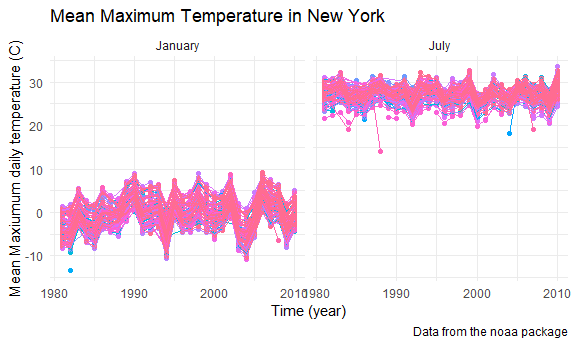
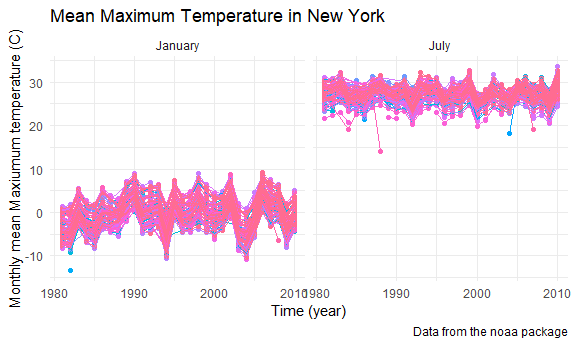
correct the axis name in problem 3

Changed region(s): [[0.0, 0.087, 0.0625, 0.8986]]

diff --git a/p8105_hw3_zl2861.md b/p8105_hw3_zl2861.md
@@ -1,14 +1,14 @@
 Visualization & EDA
 ================
 
-    ## -- Attaching packages ---------------------------------------------- tidyverse 1.3.0 --
+    ## -- Attaching packages -------------------------------------------------------------- tidyverse 1.3.0 --
 
     ## v ggplot2 3.3.0     v purrr   0.3.4
     ## v tibble  3.0.1     v dplyr   0.8.5
     ## v tidyr   1.0.3     v stringr 1.4.0
     ## v readr   1.3.1     v forcats 0.5.0
 
-    ## -- Conflicts ------------------------------------------------- tidyverse_conflicts() --
+    ## -- Conflicts ----------------------------------------------------------------- tidyverse_conflicts() --
     ## x dplyr::filter() masks stats::filter()
     ## x dplyr::lag()    masks stats::lag()
 
@@ -285,7 +285,7 @@ noaa_df %>%
   labs(
     title = "Mean Maximum Temperature in New York",
     x = "Time (year)",
-    y = "Mean Maxiumum daily temperature (C)",
+    y = "Monthly mean Maxiumum temperature (C)",
     caption = "Data from the noaa package"
   )
 ```
